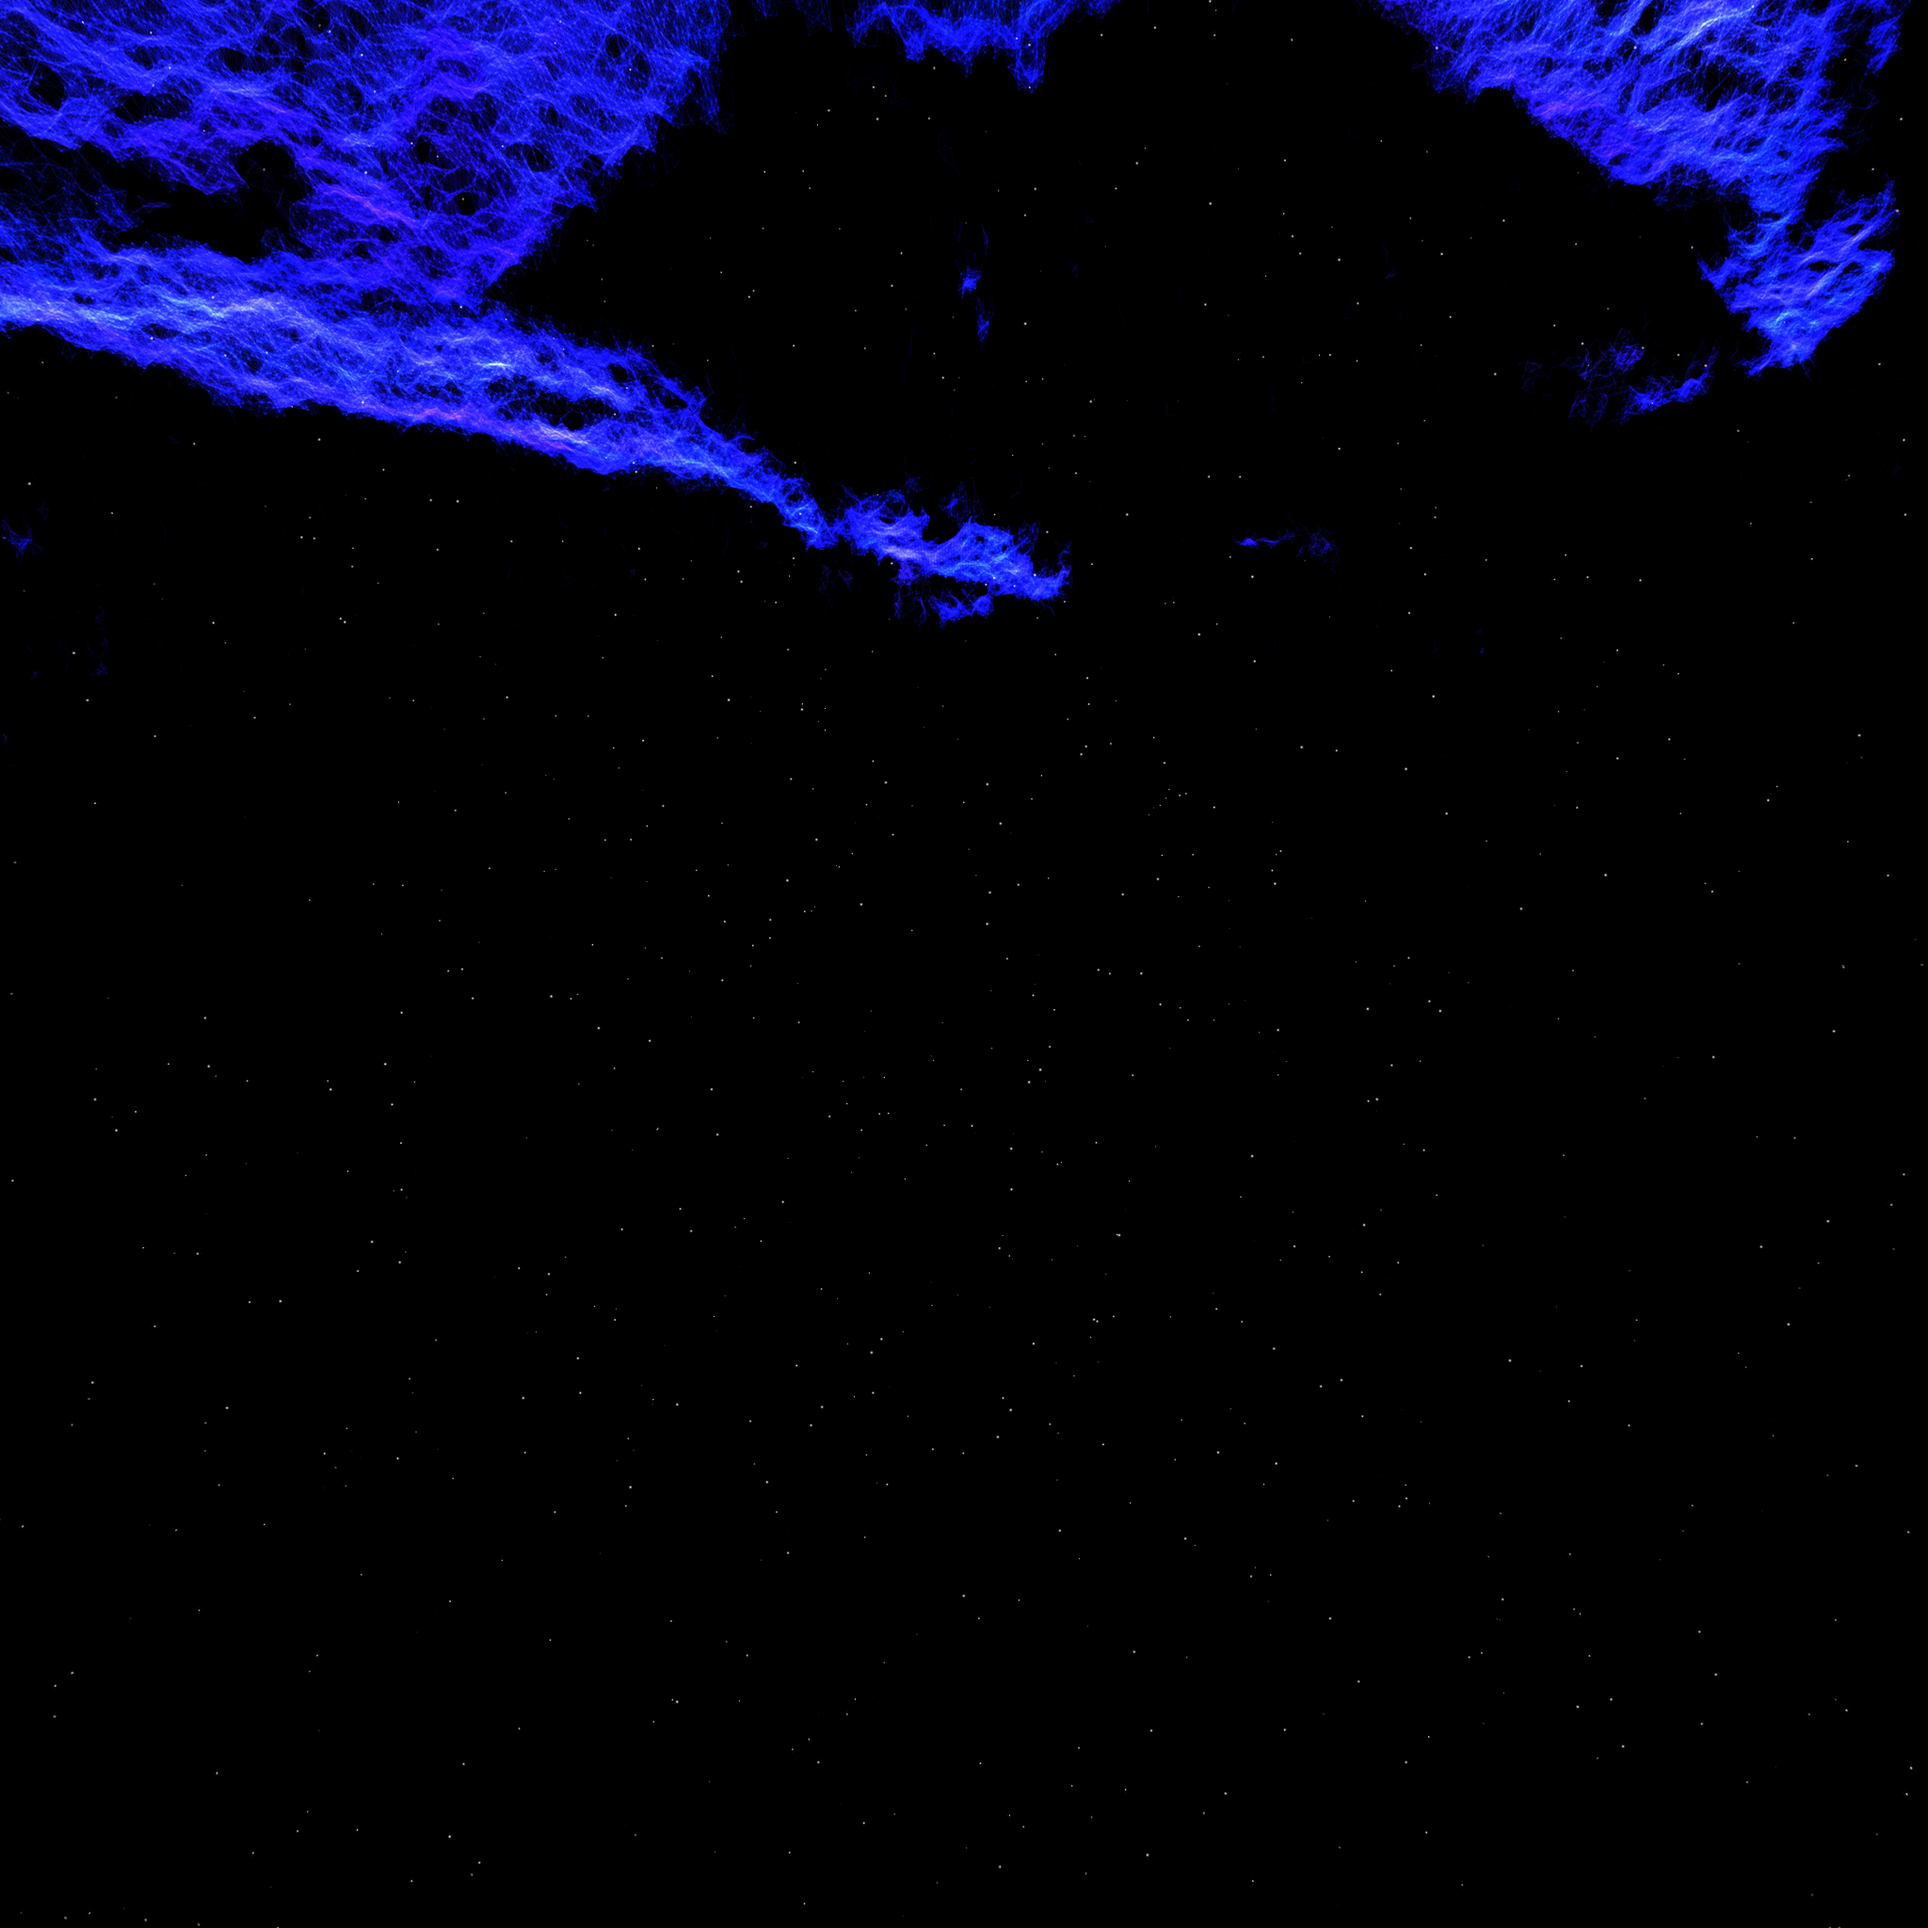
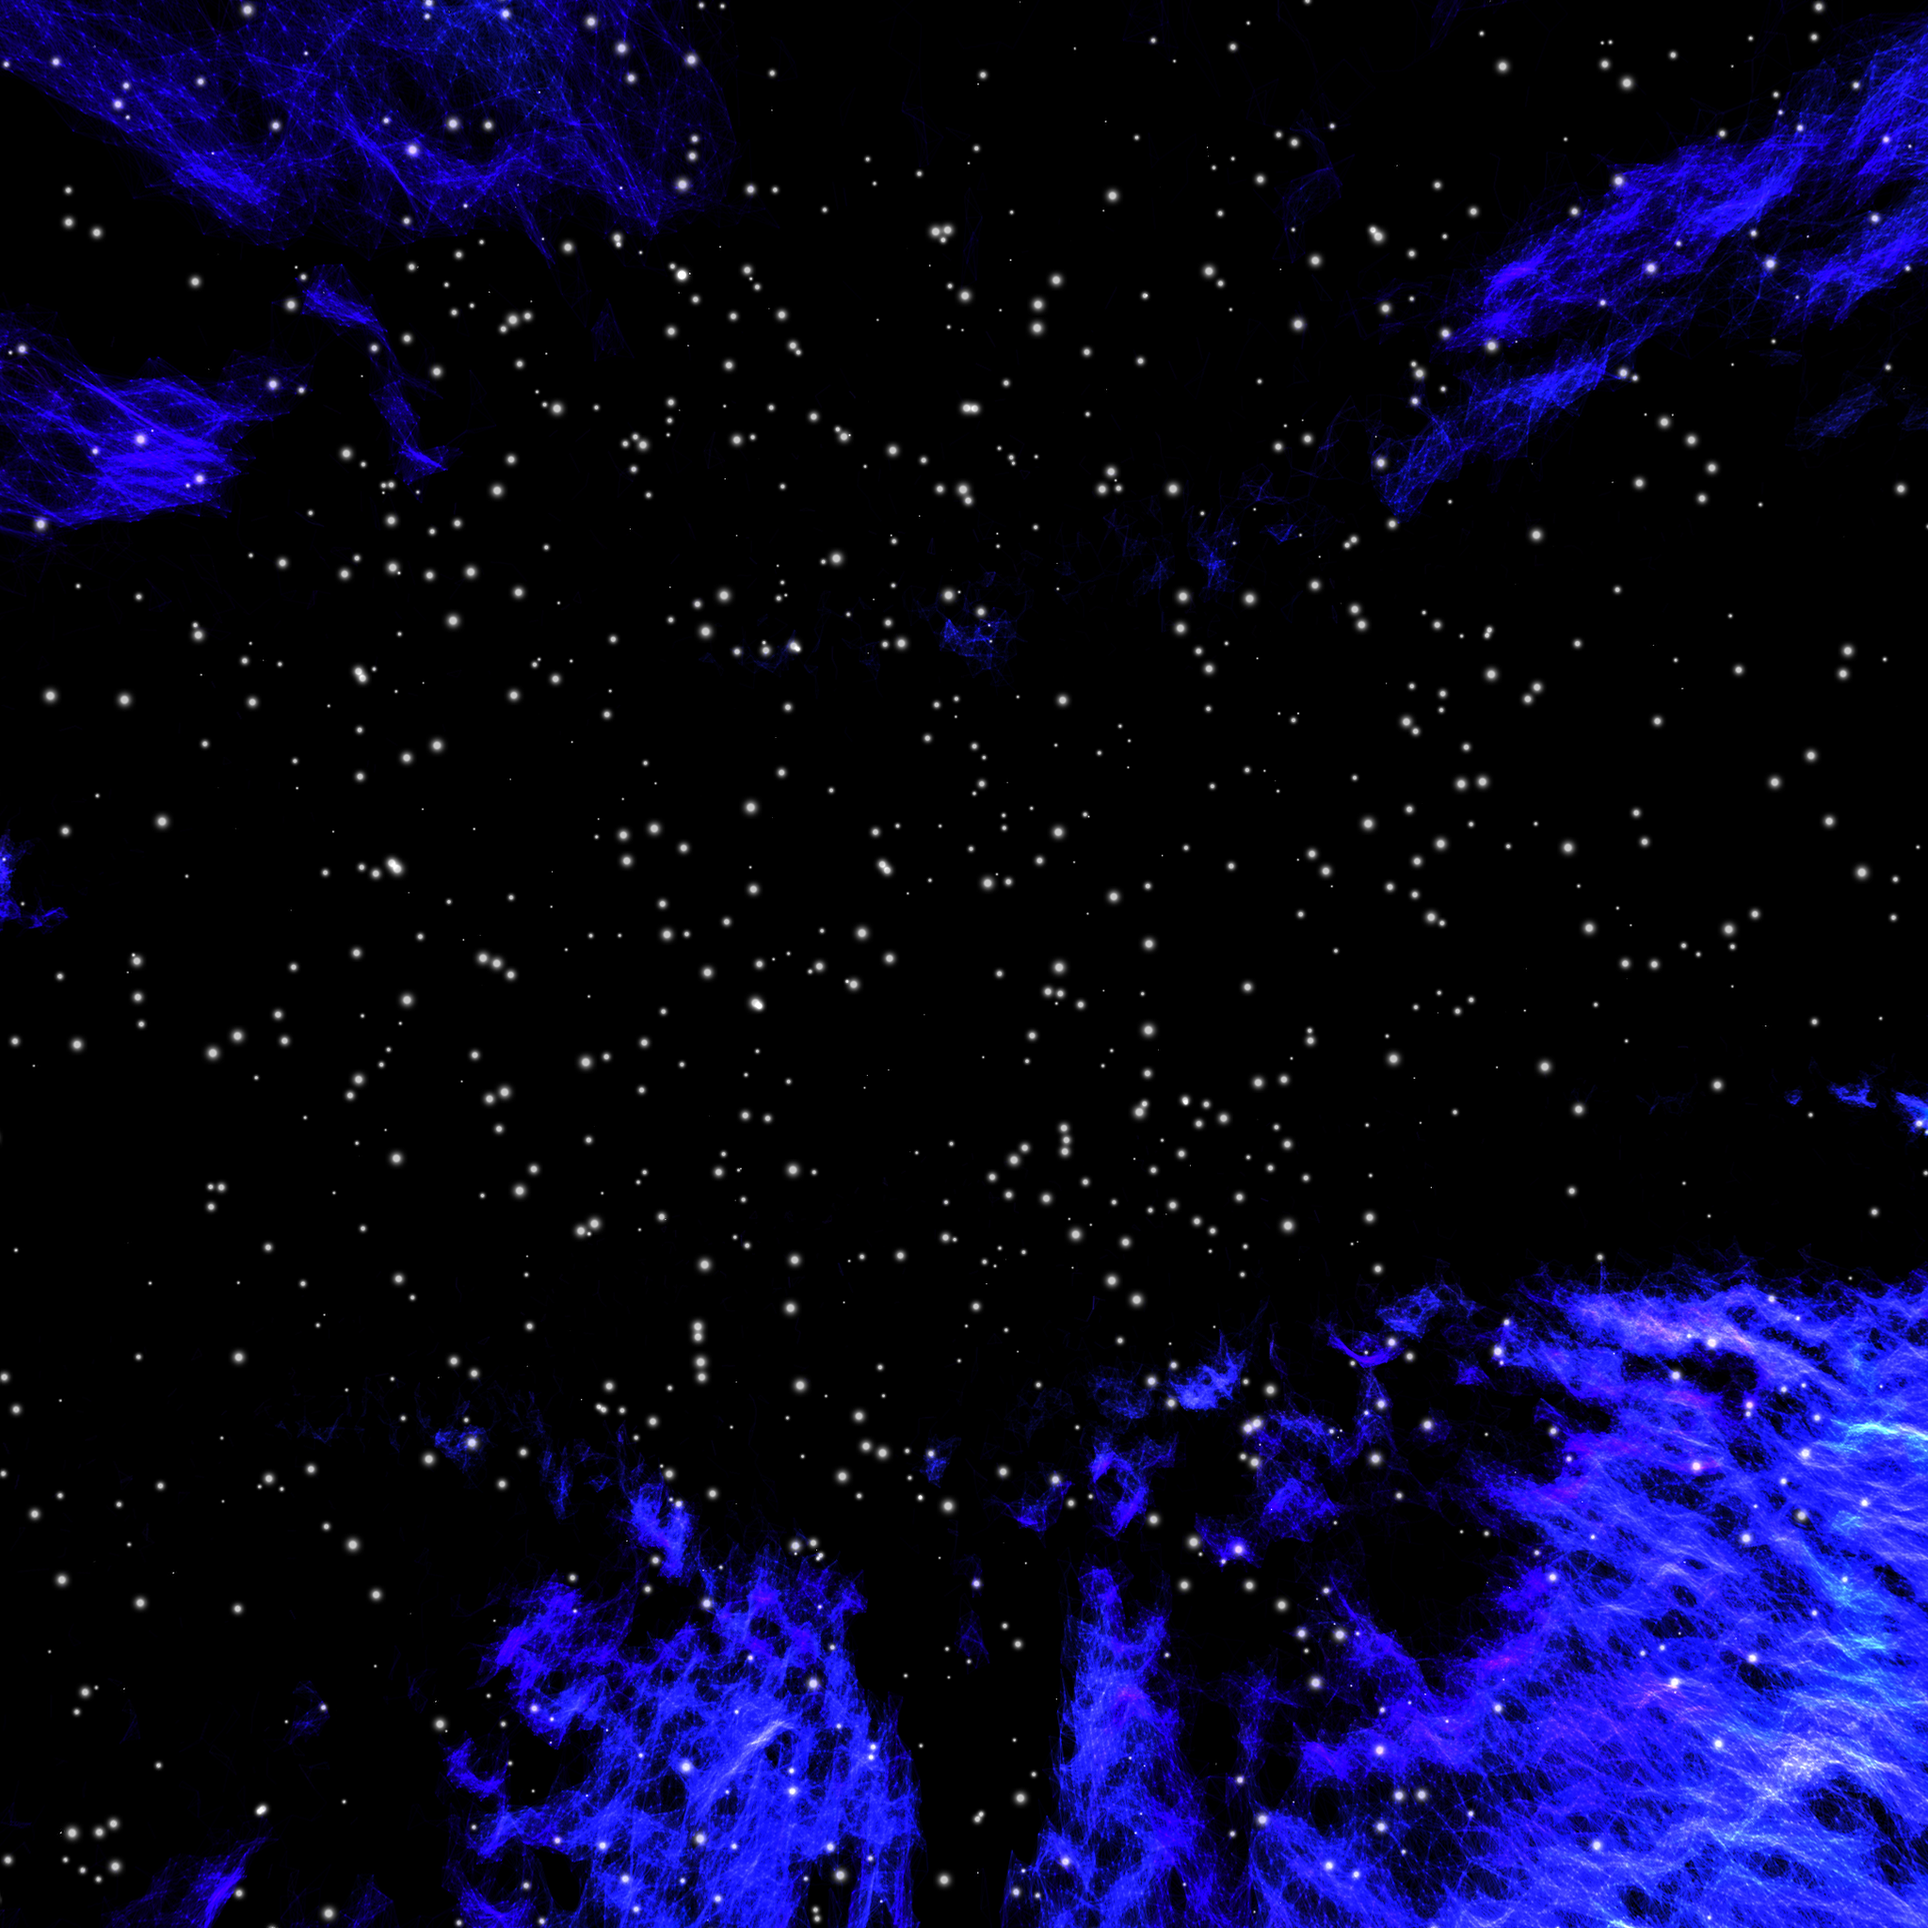
nvo cubo esc 1

diff --git a/webserver/static/js/escena2new.js b/webserver/static/js/escena2new.js
@@ -1,9 +1,3 @@
-/*
-
-
-
-*/
-
 const escena2 = {
 
     init: function(){
@@ -44,9 +38,19 @@ const escena2 = {
 	//document.body.appendChild( this.container );
 
 	this.camera = new THREE.PerspectiveCamera( 75, window.innerWidth/window.innerHeight, 0.1, 10000 );
-	this.camera.position.z = 10;
+	this.camera.position.z = 1;
 	
 	this.scene = new THREE.Scene();
+
+	this.scene.background = new THREE.CubeTextureLoader().setPath( '/static/images/' ).load( [
+	    'px2.png',
+	    'nx2.png',
+	    'py2.png',
+	    'ny2.png',
+	    'pz2.png',
+	    'nz2.png'
+	]);
+
 
 	this.mouse = new THREE.Vector2(),
 
@@ -493,7 +497,7 @@ const escena2 = {
 		
 		INTERSECTED = intersects[ 0 ].object;
 		INTERSECTED.currentHex = INTERSECTED.material.emissive.getHex();
-		INTERSECTED.material.emissive.setHex( 0x50b732 );
+		INTERSECTED.material.emissive.setHex( 0xffffff );
 
 		if(INTERSECTED.text){
 		
